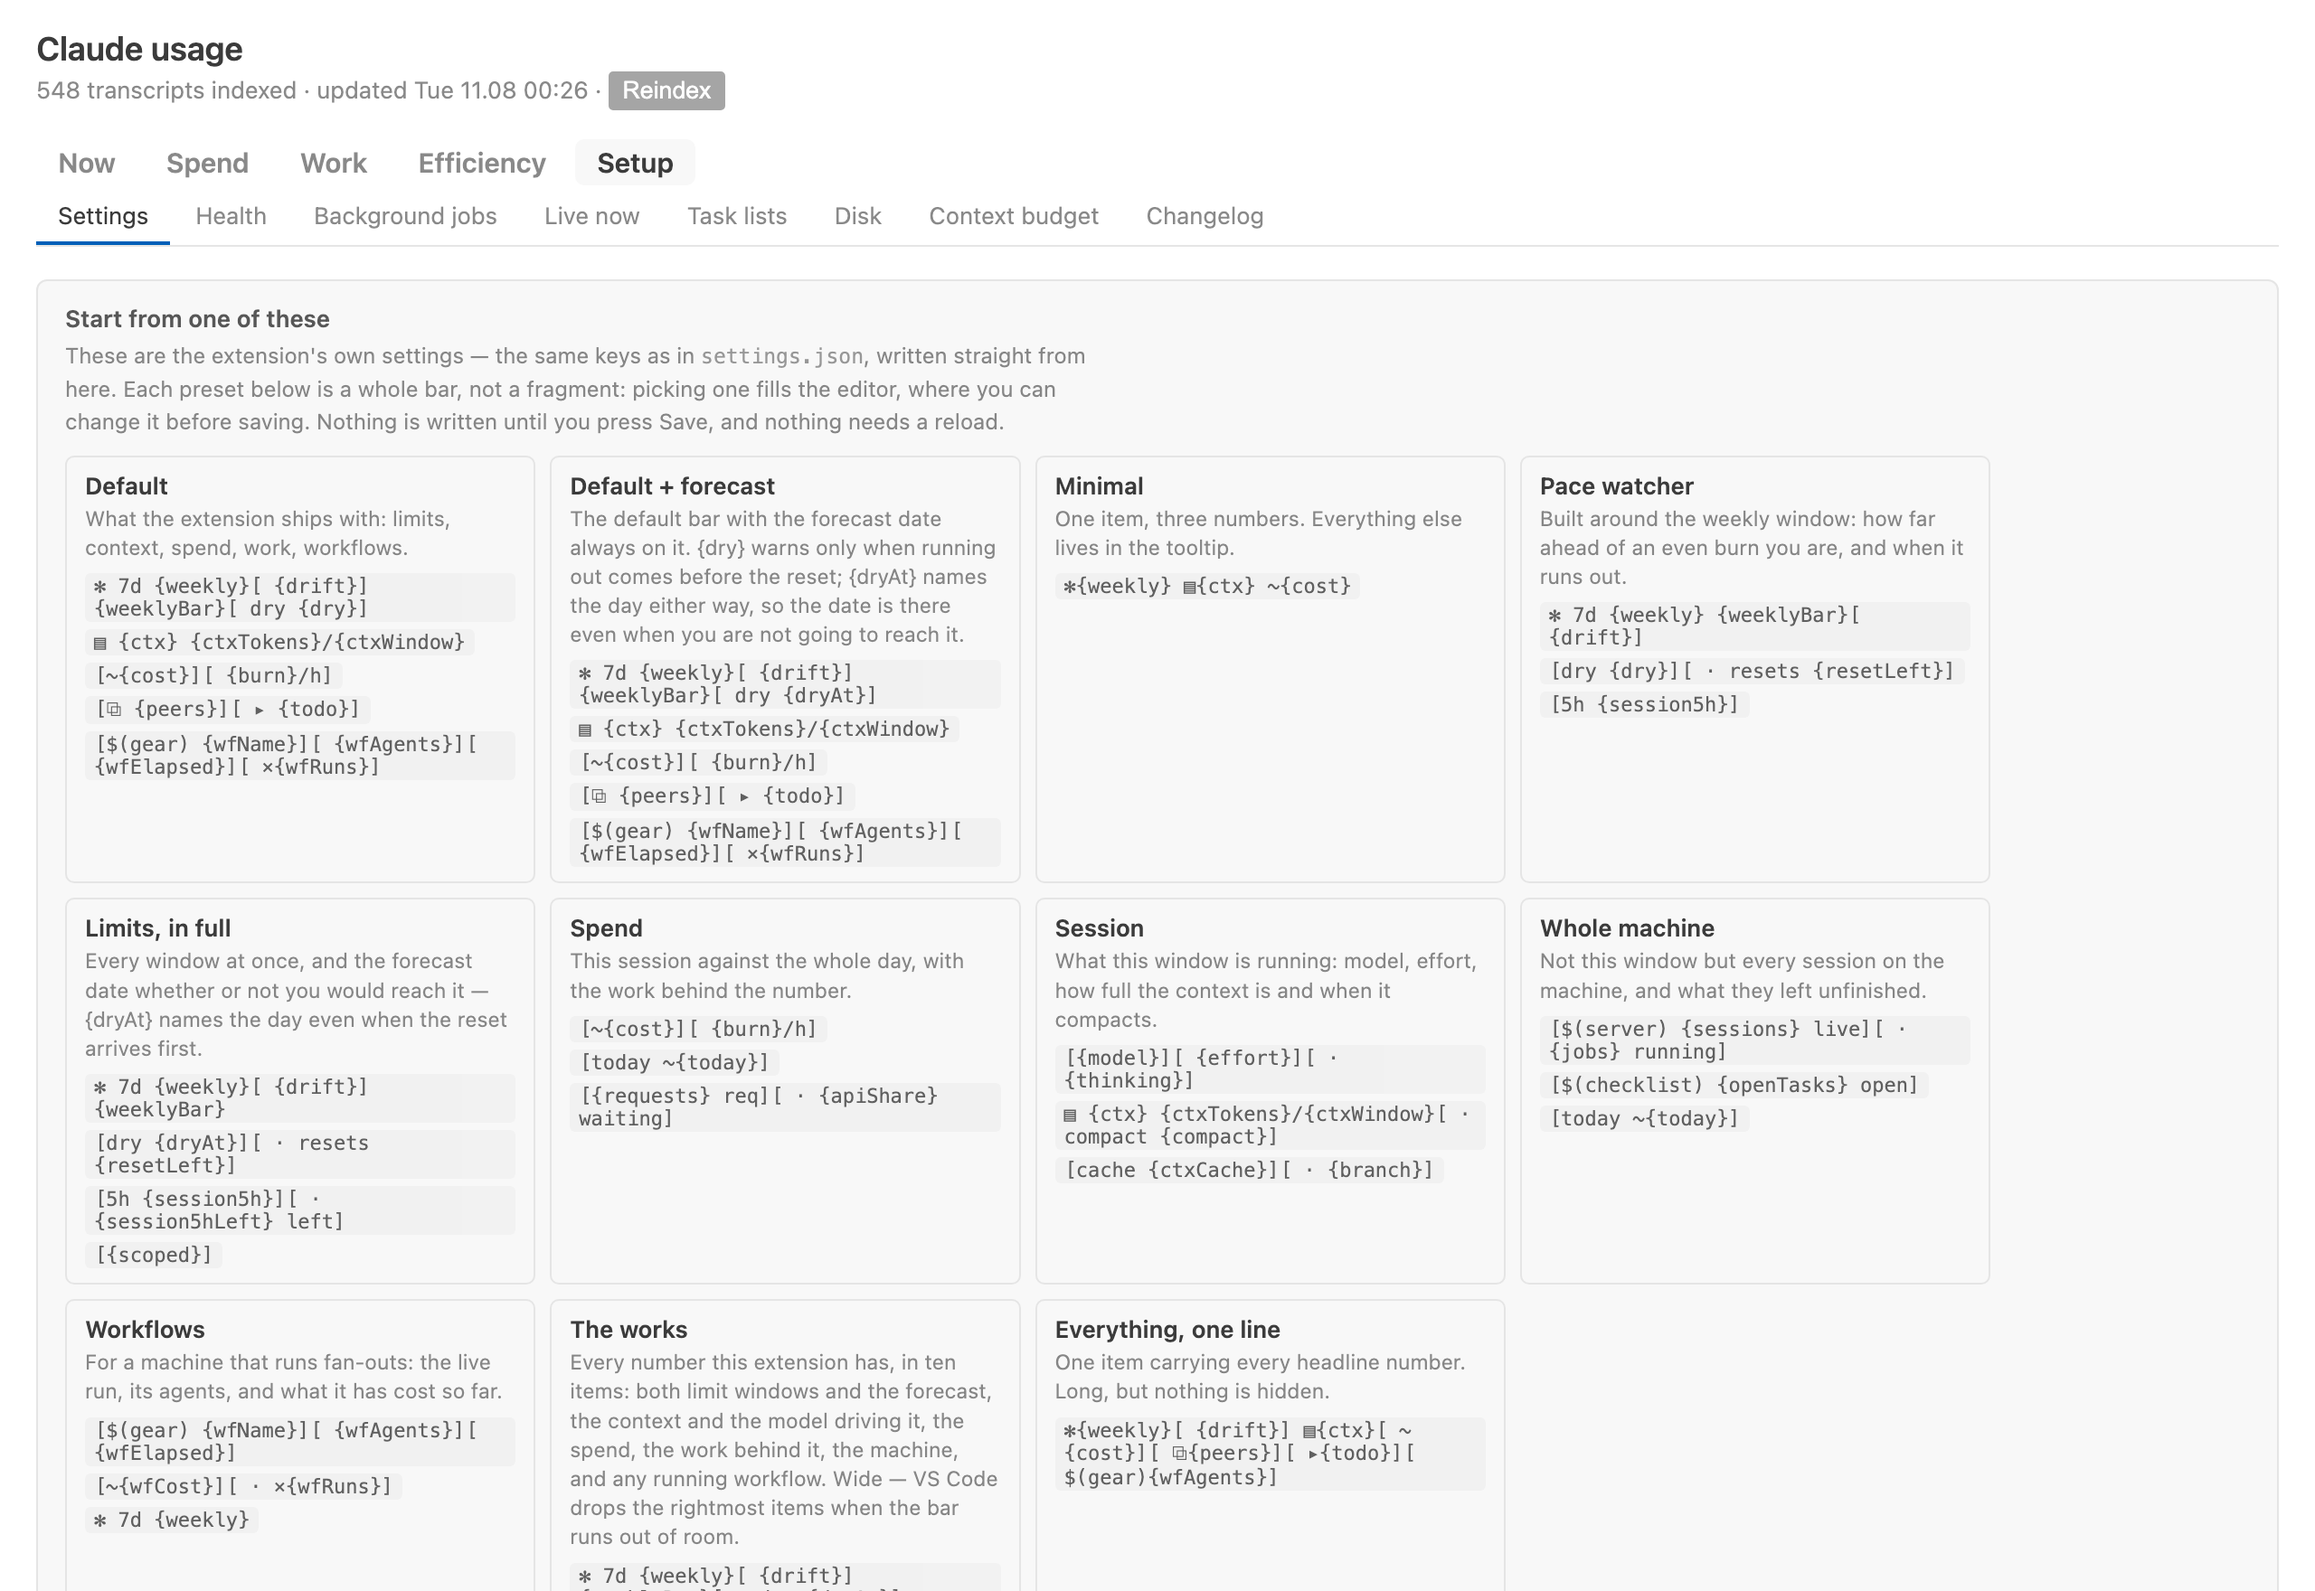
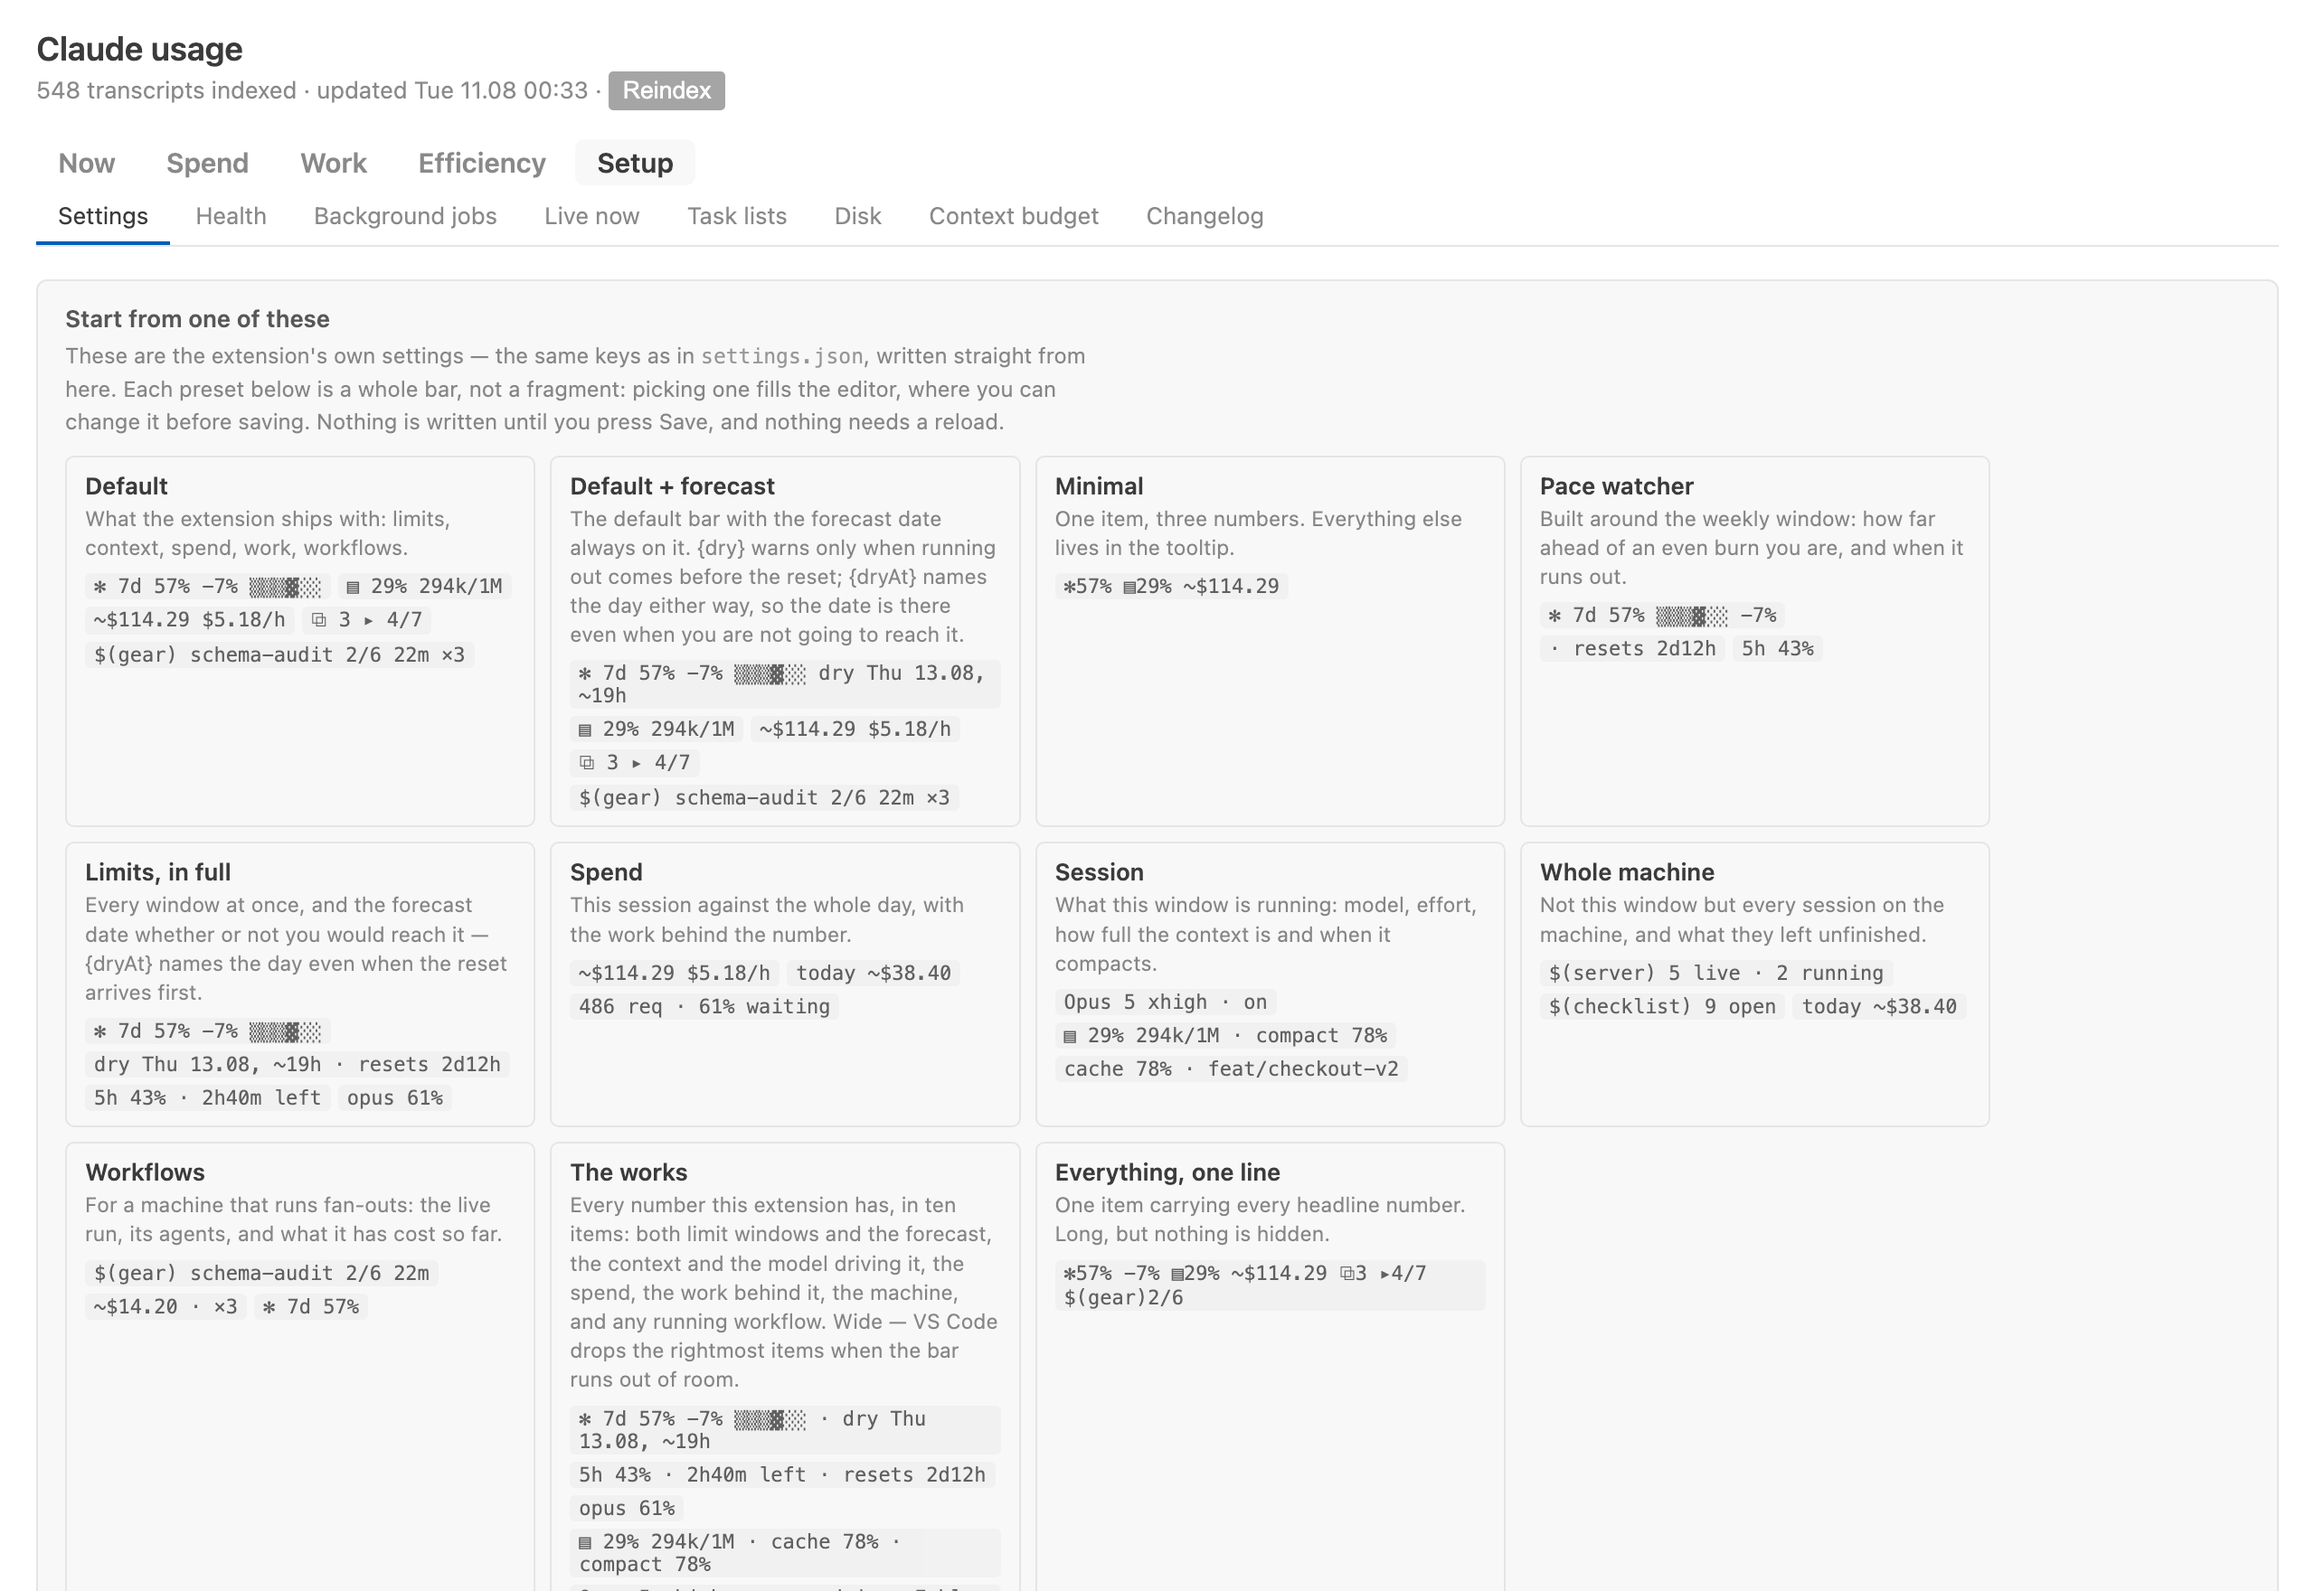
fix(tools): render the preset cards the way the editor does, not as templates
The Settings tab ships its preset cards carrying their own templates and asks
the extension to fill them in over a webview message. Outside the editor that
channel does not exist, so the screenshot showed `{weekly}` where a user sees
57% — a listing image advertising a feature by its source code.

demo-index now answers that call itself: the same renderSegment over a registry
that reads from the invented values, so a card shows the bar it would produce.
Money and shares lost their tildes there too — the templates carry one, and two
of them printed "~~$114.29" across every card.

Claude-Session: https://claude.ai/code/session_01XjAraSXvKcVMWcGNwY1U5h

diff --git a/tools/demo-index.js b/tools/demo-index.js
@@ -225,6 +225,41 @@ function runs(now) {
     ];
 }
 
+// What every placeholder says on this invented machine. The palette shows these
+// beside the names, and the preset cards are rendered from them — in the editor
+// that rendering is done by extension.js over a live reading, and outside it the
+// preview harness has to stand in or the cards show their own templates back.
+const VALUES = {
+    weekly: '57%', weeklyBar: '▒▒▒▓░░', plan: '64%', drift: '-7%', dry: '', dryAt: 'Thu 13.08, ~19h',
+    dryLeft: '2d4h', reset: 'Wed 13.08 09:00', resetLeft: '2d12h', session5h: '43%', session5hLeft: '2h40m',
+    scoped: 'opus 61%', ctx: '29%', ctxTokens: '294k', ctxWindow: '1M', ctxCache: '78%', compact: '78%',
+    model: 'Opus 5', effort: 'xhigh', advisor: 'Fable 5', thinking: 'on', outputStyle: 'default',
+    branch: 'feat/checkout-v2', version: '2.1.224', update: '',
+    // Money and shares arrive without the tilde: it lives in the segment
+    // templates, so putting one here too prints "~~$114.29" on every card.
+    cost: '$114.29', burn: '$5.18', today: '$38.40',
+    requests: '486', duration: '6h12m', apiShare: '61%', added: '+4120', removed: '-1870',
+    peers: '3', peersBusy: '1', todo: '4/7', todoActive: 'Backfill the orders table',
+    jobs: '2', sessions: '5', openTasks: '9', wfName: 'schema-audit', wfAgents: '2/6',
+    wfElapsed: '22m', wfCost: '$14.20', wfRuns: '3',
+};
+
+// The same call extension.js makes for the Settings tab, against a registry that
+// answers from VALUES instead of from a machine.
+function presetPreviews() {
+    const real = seg.fields({});
+    const registry = Object.fromEntries(Object.entries(real).map(([name, f]) => [
+        name, { topic: f.topic, doc: f.doc, get: () => VALUES[name] ?? '' },
+    ]));
+    const out = {};
+    for (const preset of seg.PRESETS) {
+        out[preset.id] = preset.segments
+            .map((template) => seg.renderSegment(template, {}, registry).text)
+            .filter((line) => line);
+    }
+    return out;
+}
+
 function demo(now = Date.now()) {
     const index = { files: {} };
     PROJECTS.forEach((p, i) => {
@@ -279,18 +314,6 @@ function demo(now = Date.now()) {
         }
     }
 
-    const values = {
-        weekly: '57%', weeklyBar: '▒▒▒▓░░', plan: '64%', drift: '-7%', dry: '', dryAt: 'Thu 13.08, ~19h',
-        dryLeft: '2d4h', reset: 'Wed 13.08 09:00', resetLeft: '2d12h', session5h: '43%', session5hLeft: '2h40m',
-        scoped: 'opus 61%', ctx: '29%', ctxTokens: '294k', ctxWindow: '1M', ctxCache: '78%', compact: '78%',
-        model: 'Opus 5', effort: 'xhigh', advisor: 'Fable 5', thinking: 'on', outputStyle: 'default',
-        branch: 'feat/checkout-v2', version: '2.1.224', update: '', cost: '~$114.29', burn: '~$5.18',
-        today: '~$38.40', requests: '486', duration: '6h12m', apiShare: '~61%', added: '+4120', removed: '−1870',
-        peers: '3', peersBusy: '1', todo: '4/7', todoActive: 'Backfill the orders table',
-        jobs: '2', sessions: '5', openTasks: '9', wfName: 'schema-audit', wfAgents: '2/6',
-        wfElapsed: '22m', wfCost: '~$14.20', wfRuns: '3',
-    };
-
     return {
         index,
         total,
@@ -312,11 +335,11 @@ function demo(now = Date.now()) {
                 presets: seg.PRESETS,
                 alignment: 'right', priority: 100, refreshInterval: 60,
                 palette: Object.entries(seg.fields({})).map(([name, f]) => ({
-                    name, topic: f.topic, doc: f.doc, value: values[name] ?? '',
+                    name, topic: f.topic, doc: f.doc, value: VALUES[name] ?? '',
                 })),
             },
         },
     };
 }
 
-module.exports = { demo, PROJECTS };
+module.exports = { demo, presetPreviews, PROJECTS, VALUES };

diff --git a/tools/preview.js b/tools/preview.js
@@ -136,7 +136,18 @@ const THEMES = {
 };
 const THEME = THEMES[THEME_NAME];
 
-const wrap = (open, extra = '') => html
+// The preset cards ship their own templates in the markup and are filled in by
+// extension.js over a message — a channel that does not exist outside a webview,
+// so a screenshot taken here would show `{weekly}` where the editor shows 57%.
+// Same call, same renderer, invented values.
+const page = demo ? (() => {
+    const esc = (s) => String(s).replace(/[&<>"]/g, (c) => ({ '&': '&amp;', '<': '&lt;', '>': '&gt;', '"': '&quot;' }[c]));
+    const previews = require('./demo-index').presetPreviews();
+    return html.replace(/(data-preset-preview="([^"]+)">)(?:<span class="chip-seg">[\s\S]*?<\/span>)*/g,
+        (m, head, id) => head + (previews[id] || []).map((line) => `<span class="chip-seg">${esc(line)}</span>`).join(''));
+})() : html;
+
+const wrap = (open, extra = '') => page
     .replace('</head>', `<style>${THEME}</style></head>`)
     .replace('</body>', (open ? `<script>addEventListener('load',()=>{
         document.querySelector('nav.sections [data-section="${open.section}"]').click();
